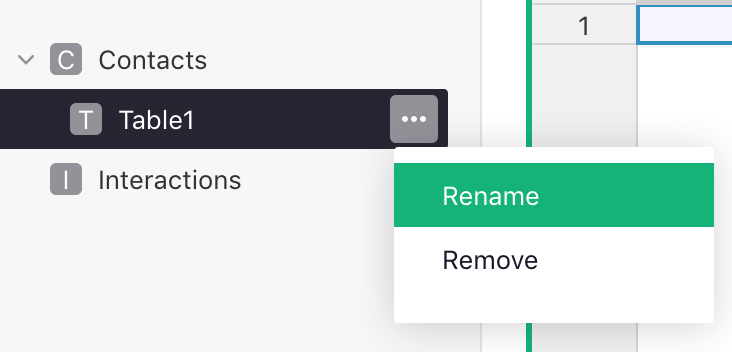
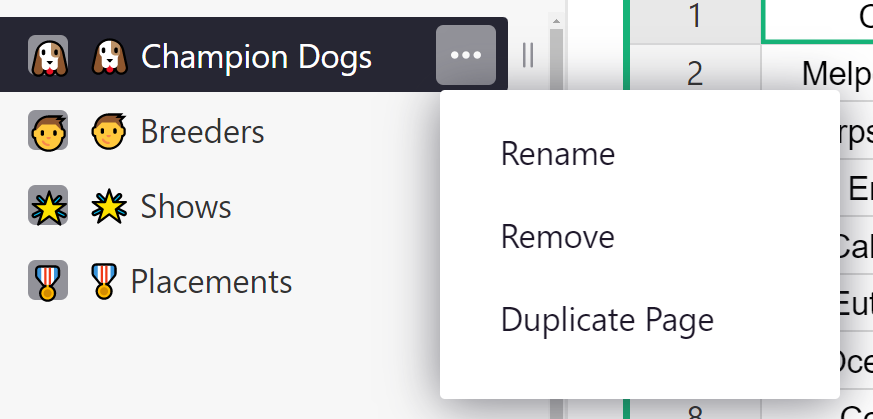
raw-data

diff --git a/help/page-widgets.md b/help/page-widgets.md
@@ -14,14 +14,22 @@ groups. You may rearrange and group pages in the left panel by dragging them to 
 *![drag_pages](images/drag_pages.png)*
 {: .screenshot-half }
 
-You can rename pages using the three-dots menu next to the page name in the list, or by clicking
-the page name on top of the screen.
+You can rename, remove, or duplicate pages using the three-dots menu next to the page name in the list. 
 
-*![rename_pages1](images/rename_pages1.png)*
+*![Renaming Pages Menu](images/rename_pages1.png)*
 {: .screenshot-half }
 
-*![rename_pages2](images/rename_pages2.png)*
+* **Renaming** the page does not edit data tables' names or widget titles. See [changing widget](page-widgets.md#changing-widget-or-its-data) below to learn how to edit table and widget names.
+* **Duplicating** a page duplicates *views* of data and does not duplicate the data itself.
+* **Removing** a page does not delete data. When removing the last view of data, you will be asked if you want to delete only the view, but not the data itself; or if you want to delete both the page and the underlying data table(s). Learn more about your document's data in the [raw data page](raw-data.md).
+
+*![Removing Pages](images/pages-delete.png)*
+
+Note that pages can also be renamed by clicking the page name on top of the screen. 
+
+*![Renaming Pages Breadcrumbs](images/rename_pages2.png)*
 {: .screenshot-half }
+
 
 Using the opener icon (<span class="grist-icon" style="--icon: var(--icon-PanelLeft)"></span>)
 near the top of the left panel, you can collapse the panel to show only the initials of each page,
@@ -47,7 +55,9 @@ on separate pages.
 
 ![page_widget_types](images/page_widget_types.png)
 
+There is a special page called [raw data](raw-data.md) that lists all data tables in your document and summarizes your document's usage statistics. Navigate to the raw data page by clicking on the Raw Data link in the bottom left of the pages menu.
 
+![Raw Data in Menu](images/raw-data-nav.png)
 
 ## Widget picker
 
@@ -76,9 +86,11 @@ right-side panel. Click on "Change Widget".
 *![change_widget](images/change_widget.png)*
 {: .screenshot-half }
 
-You can then use the widget picker to change the widget or the data it displays.
+You can then use the widget picker to change the widget or the data it displays. You may also edit the widget's title. 
 
+You can also edit the widget's title, or the underlying data table's name by clicking on the widget title above a widget. By default, the widget title is the data table's name. Learn more about data tables in the [raw data page](raw-data.md).
 
+![Renaming Widgets](images/widgets-renaming.png)
 
 ## Configuring field lists
 
@@ -88,8 +100,7 @@ records. Any of the widget types can be used to show the same underlying data.
 In a **Table**, each record is represented by a row, and columns represent the same kind of value
 for each record.
 
-A table is also a helpful representation of the underlying data to keep in mind
-when configuring other widget types.
+Note that the [raw data page](raw-data.md) lists all data tables.
 
 In a **Card List**, each row of the underlying data is shown as a card. Each column in the data
 corresponds to a *field* in this card. When talking about a Card widget, we'll use the term

diff --git a/help/raw-data.md b/help/raw-data.md
@@ -1,0 +1,21 @@
+# Raw data page
+
+The raw data page is a special page that lists all [data tables](glossary.md#data-table) in your document and summarizes your document's usage statistics.
+
+From your document, navigate to the raw data page by clicking on the Raw Data link in the bottom left of the pages menu.
+
+![Raw Data in Menu](images/raw-data-nav.png)
+
+Unlike other [pages](page-widgets.md), the layout in the raw data page cannot be customized. From the list of data tables, you can find the data table's name and id, and remove data. Not that removing a data table from this page *will* delete data and remove it from all pages. This is different from other pages where it is possible to remove a view of data and not delete the data itself. 
+
+![Raw Data List](images/raw-data-list.png)
+
+Click on a data table to open it. Note that in the creator panel the [widget type](page-widgets.md#page-widgets) cannot be changed. Renaming the widget also renames the data table. Because raw data is intended to show all data, columns cannot be hidden, either. However, columns can be rearranged, deleted, created, and modified. For creators, this view may make it easier to edit data structure, add [formulas](formulas.md), [conditional formatting](conditional-formatting.md), and so on.
+
+![Raw Data View](images/raw-data-lightbox.png)
+
+## Usage
+
+Usage statistics are summarized beneath the list of data tables. Note that usage applies to the entire document, not individual tables. Learn more about document [limits](limits.md).
+
+![Usage](images/raw-data-usage.png)

diff --git a/help/glossary.md b/help/glossary.md
@@ -41,6 +41,12 @@ A dashboard is just another name for a page, typically organized to give a
 summary or overview of a document's data.  Grist is well suited to constructing
 dashboards, by creating pages with suitably [linked widgets](linking-widgets.md).
 
+## Data Table
+
+Data is stored in tables.  Tables have named [columns](col-types.md), and a sequence of rows
+containing values for those columns.  Every row has a numeric id (available
+as `$id` in formulas) that is unique within that table. The [raw data page](raw-data.md) lists all data tables in your document.
+
 ## Document
 
 A Grist document is a collection of related data. If you work with
@@ -144,12 +150,6 @@ called a column.
 The order in which rows of a table are shown is called the sort order.
 An example of changing the sort order of a table is given in the
 [CRM tutorial](lightweight-crm.md#to-do-tasks-for-contacts).
-
-## Table
-
-Data is stored in tables.  Tables have named [columns](col-types.md), and a sequence of rows
-containing values for those columns.  Every row has a numeric id (available
-as `$id` in formulas) that is unique within that table.
 
 ## User Menu
 
